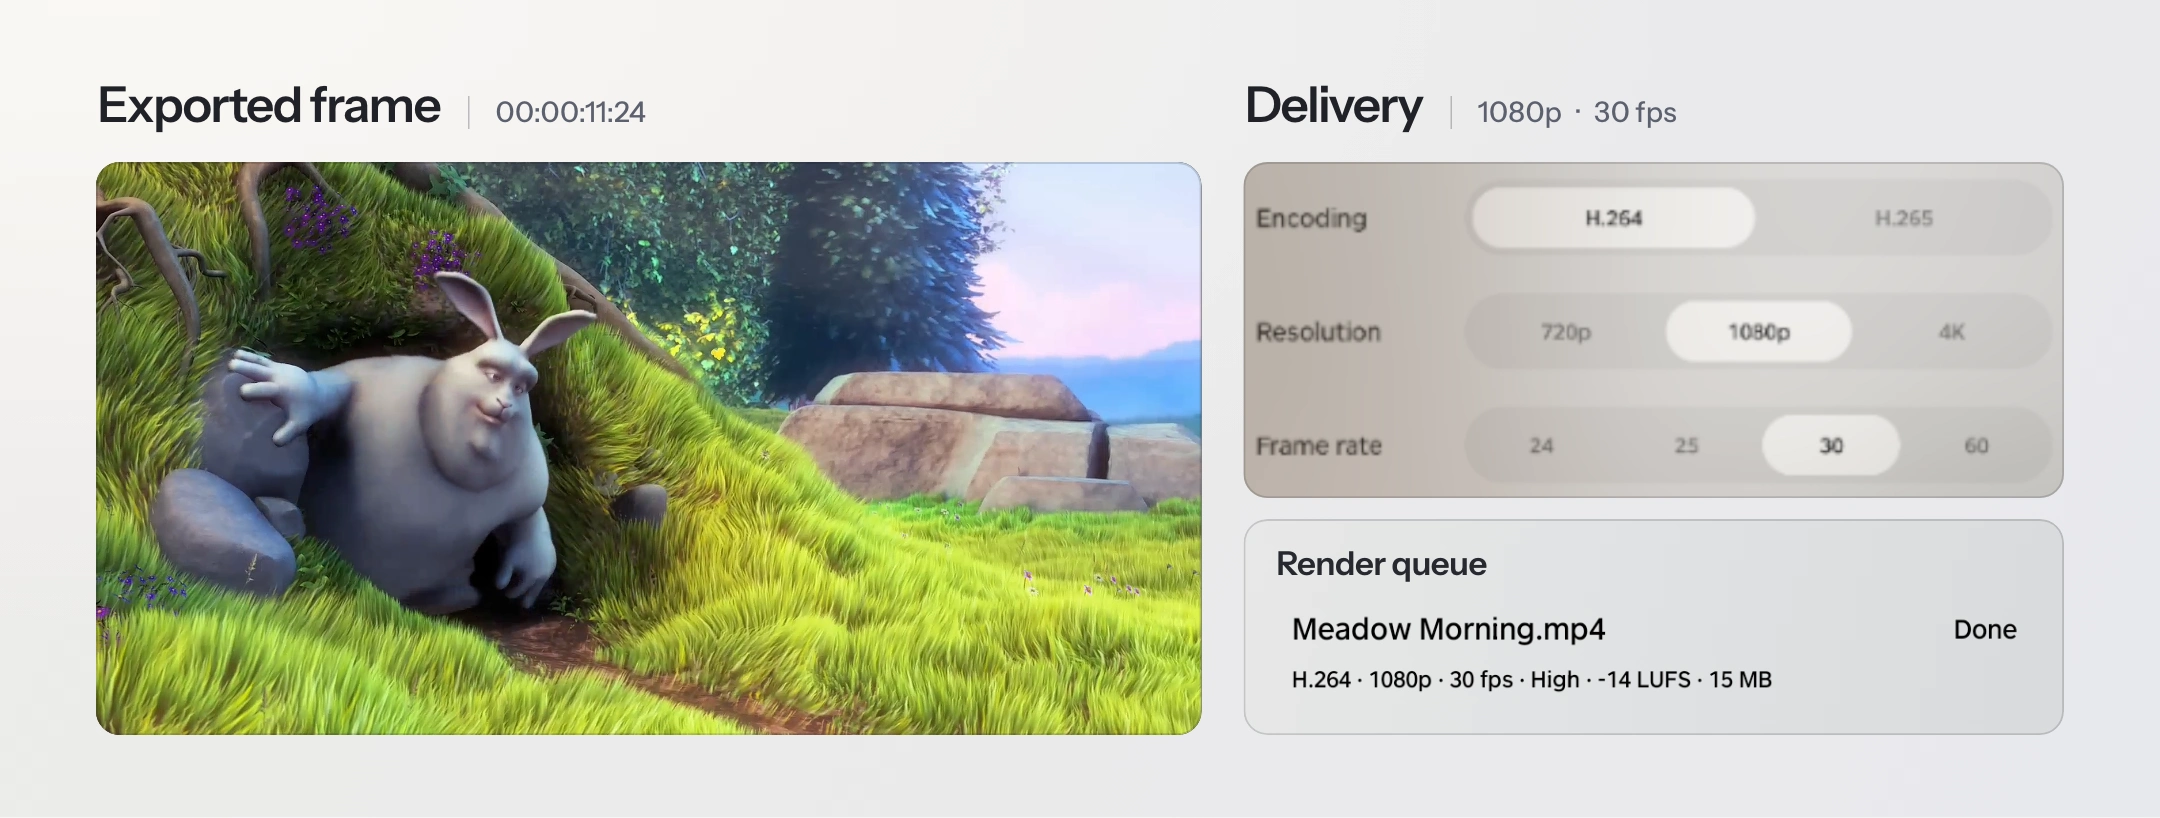
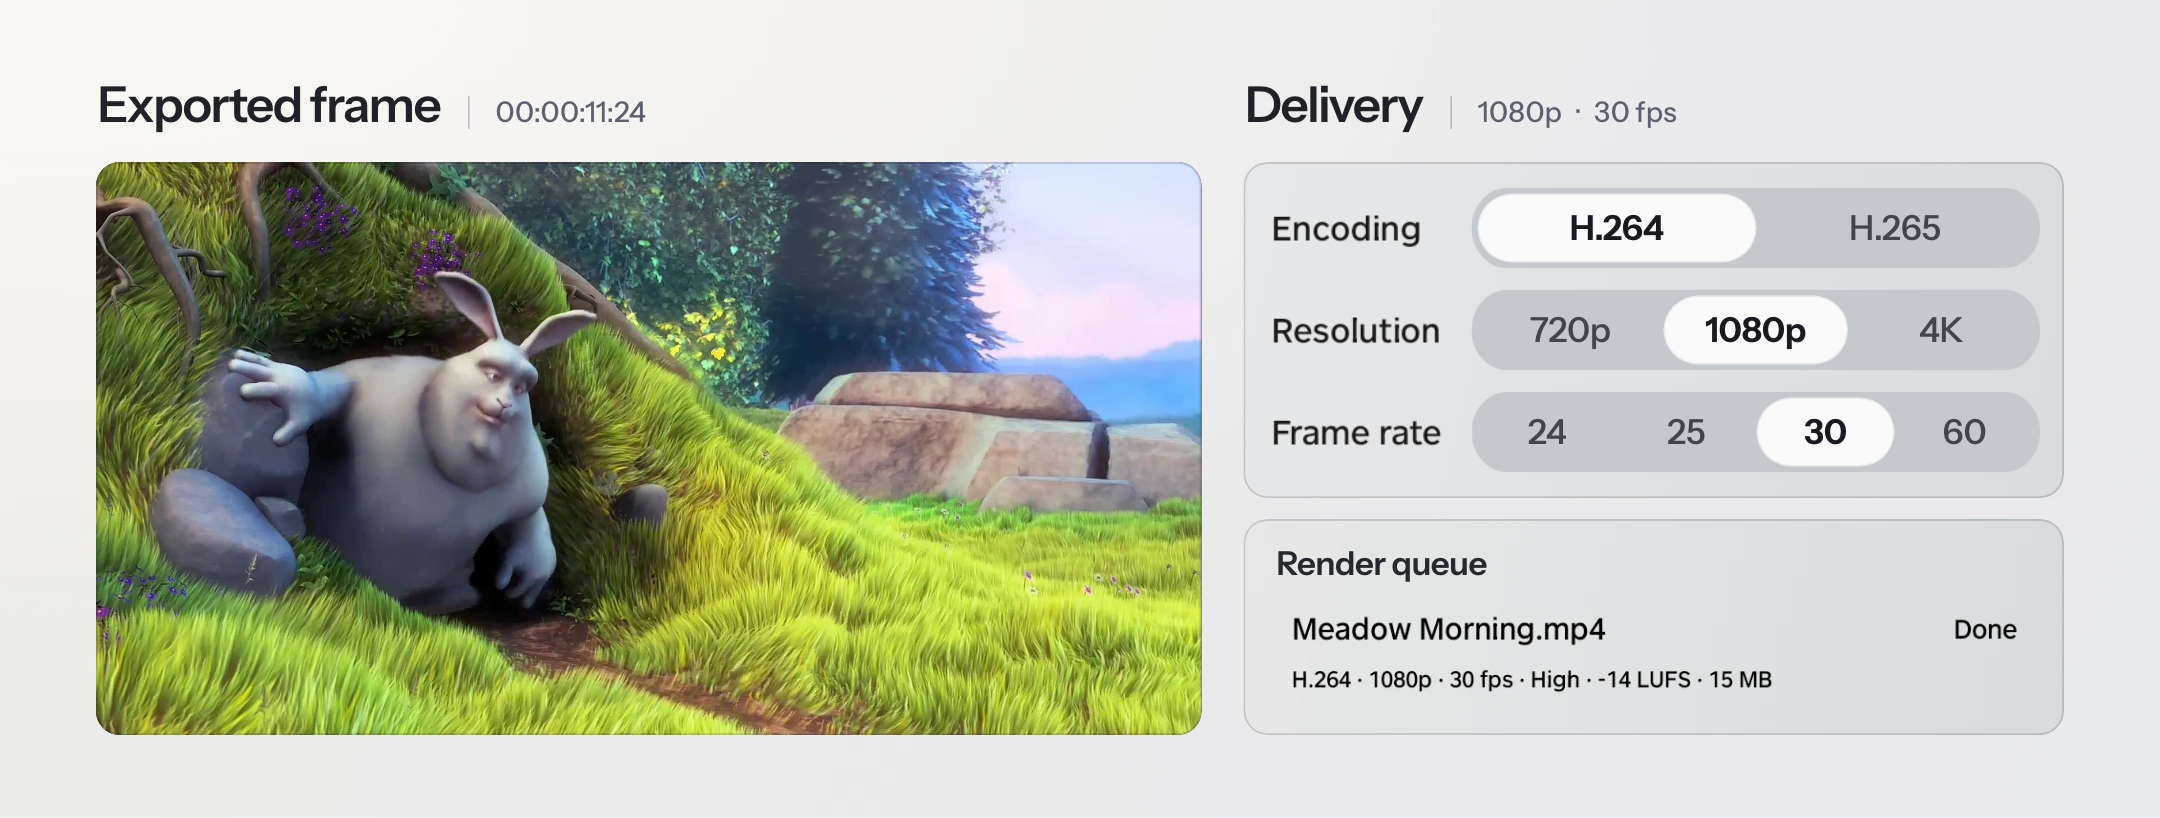
Make delivery settings legible at GitHub display sizes

Changed region(s): [[0.5583, 0.1834, 0.9616, 0.6112], [0.8685, 0.3667, 0.9616, 0.4584]]

diff --git a/THIRD_PARTY_NOTICES.md b/THIRD_PARTY_NOTICES.md
@@ -4,7 +4,7 @@
 
 The cover and feature images show excerpts from *Big Buck Bunny*, © 2008 Blender Foundation / [www.bigbuckbunny.org](https://peach.blender.org/). The film is licensed under [Creative Commons Attribution 3.0](https://creativecommons.org/licenses/by/3.0/). See the [filmmakers’ attribution instructions](https://peach.blender.org/about/).
 
-The demo project trims, rearranges and color grades selected shots. The interface details come from the running editor’s windows and PICO OS 6.2 emulator captures. The delivery image includes a frame from the finished 1080p export. The cover uses a generated optical-glass background. The film remains under its own license and is used here only in the project gallery.
+The demo project trims, rearranges and color grades selected shots. The interface details come from the running editor’s windows and PICO OS 6.2 emulator captures. The delivery image includes a frame from the finished 1080p export. Its settings inset uses the captured field labels and control outlines, with the option text typeset for readability. The cover uses a generated optical-glass background. The film remains under its own license and is used here only in the project gallery.
 
 ## PICO icons
 
